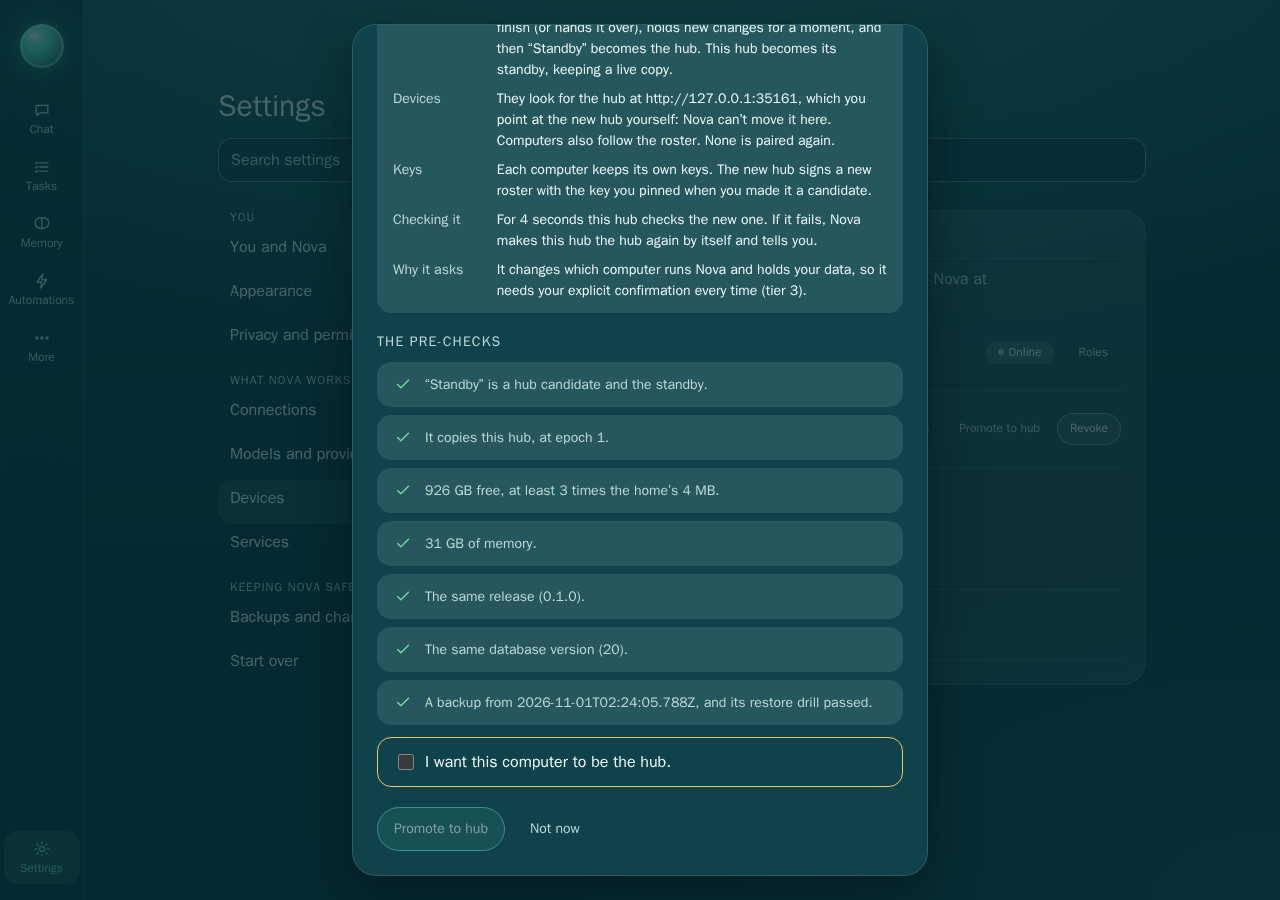
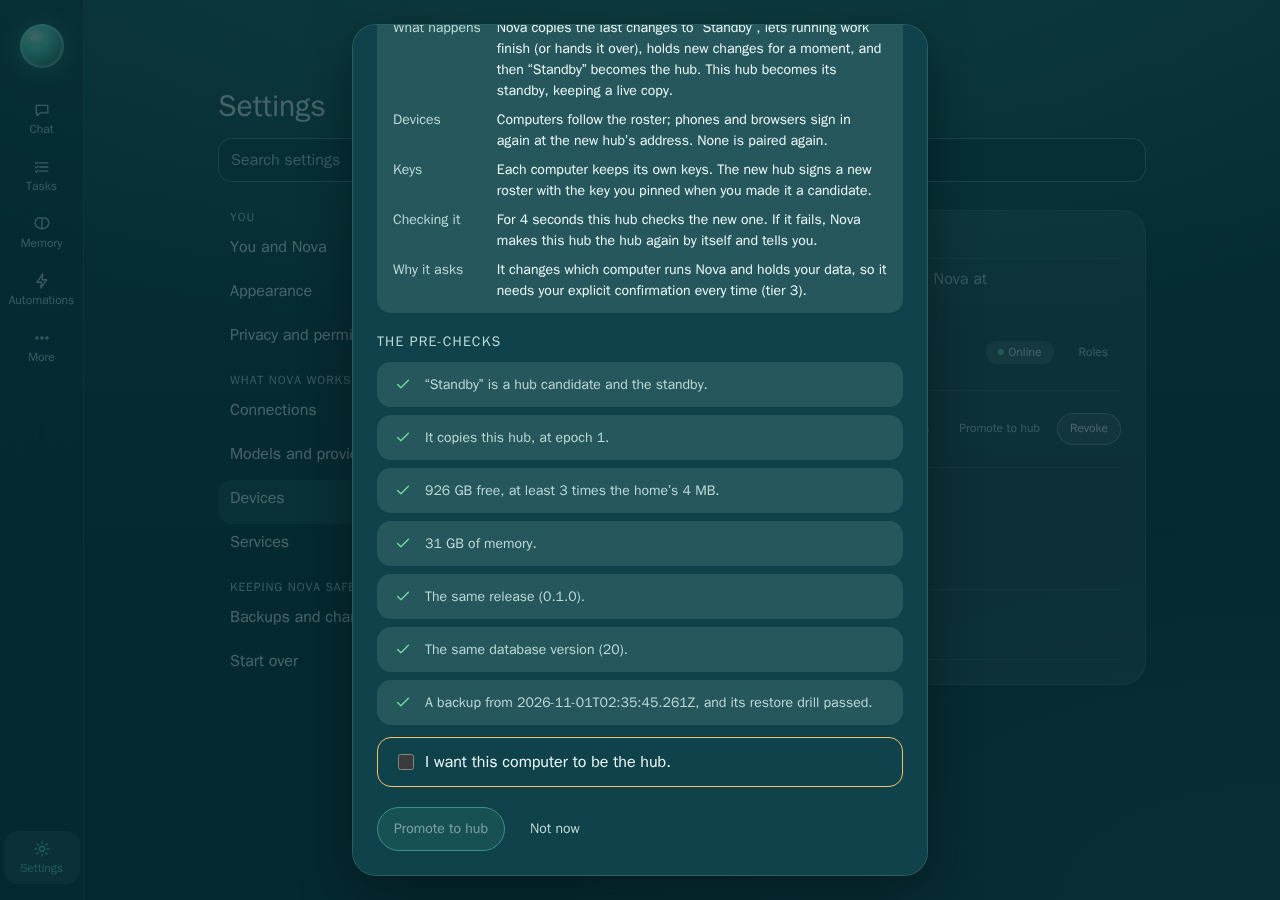
M10g: gate evidence, with the drill's recorded run

Changed region(s): [[0.375, 0.0311, 0.6875, 0.1867], [0.3125, 0.0933, 0.3438, 0.1556]]

diff --git a/docs/evidence/m10g-gate.md b/docs/evidence/m10g-gate.md
@@ -12,7 +12,13 @@ The branch is `m10g/hub-promotion`, from main at `4685053d` (M10f merged). **No 
 new is replicated (the promotion's shared record is its ledger tasks; each node's own progress is
 `mesh/promotion.json`, which stays on its node), so `ADDED_COLUMNS` is unchanged.
 
-@@SUITE@@
+## Suite
+
+- `npm run check` at `8a2f24c3` (tokens, themes, typecheck, then `npm test` under the tripwire): **1456 tests: 1441 pass, 2 fail, 13 skipped**. The two are `tests/core/provider-guard.test.ts` › “a coding agent that changes more than Nova takes…” (the stand-in agent ended without a result) and `tests/skills-api.test.js` › “the email summary…” (timed out): the two load-sensitive Era 2/provider tests M10f’s evidence names too. Run alone right after, both files pass (17 of 17). Neither touches M10g’s code.
+- The first full run, before the roll-back asked the failing hub to stand down, failed the drill with two nodes taking a change in the same tick (see Guards); that is fixed and the drill passed in every run since.
+- `scripts/ui-test.sh`: **108 tests: 108 pass** (Chromium and WebKit, in the Playwright image), `tests/ui/m10g-promotion.test.ts` among them. Its screenshots are in `docs/screenshots/m10g/`; the other evidence screenshots the run rewrote were put back as they were.
+- CI is the record: see the PR.
+
 
 ## Reused, and new
 
@@ -31,4 +37,241 @@ new is replicated (the promotion's shared record is its ledger tasks; each node'
 
 ## Gate items
 
-@@GATE@@
+### 1. Planned promotion, end to end, every step ledgered
+
+- **The pre-checks refuse, for each reason, in words.** `tests/core/mesh-promotion.test.ts`:
+  - "pre-checks: each reason refuses…" (pure): no such device, revoked, the hub itself, a phone, a
+    computer that is no hub candidate, a candidate that isn't the standby ("Make it the standby
+    first"), unreachable, not following this hub at its epoch, stepped down, too little disk (less
+    than 3× the home), disk unknown, too little memory (under 2 GB), another release, another schema,
+    no backup, a backup older than 24 h, a backup whose drill hasn't passed; and a good candidate
+    passing all seven checks.
+  - "pre-checks through the hub…" (two cores over HTTP): a phone, a computer with no candidacy, a
+    candidate that isn't the standby, no fresh backup, then the candidate reporting 1 KB of disk and
+    1 GB of memory (`disk`, `memory`), and a candidate on release 0.2.0 (`version`). The route without
+    `confirm` is 400 (tier 3, every time); with it and a failing check, 409 with the reason, a failed
+    "Promotion pre-checks" ledger task, and the hub unchanged.
+  - The drill, case 1: the real phone, the real computer, and the standby with no backup refused.
+- **Catch-up, drain, hold, transfer, demotion, verification.** "a planned promotion end to end…"
+  (two cores) and the drill's case 2 (two processes): the chain on the new hub is six ledger tasks,
+  all done and each checked by Nova (`nova-promotion` confirmations; the transfer is M4's own task
+  under the chain): "Promotion pre-checks for “…”", "Copied to the candidate", "Running work finished
+  or handed over", "Hub handed over to this node", "“…” is the standby now", "Checks of this node as
+  the hub". A change made while the hub handed over was refused with "Nova is handing the hub over…"
+  (409); the old hub then refuses changes as a standby and copies the new hub (a memory written on
+  the new hub arrives on the old one); the stable name points at the new hub; the window passes and
+  the new hub records it with the probe runs.
+- **The drain** (`ledger.drain`): "the drain: nothing new starts but what is kept; running work gets
+  the bound, then is handed over; work past its commit point is never cut": a running task is left
+  active for the next hub's recovery, a task queued during the drain doesn't start until `resume()`,
+  and a task past its commit point (`uncancellable`) is reported `stuck`, so the hand-over stops.
+- **The automatic roll-back at epoch + 2.** "the new hub fails its checks (the stable name didn't
+  move)…" (two cores: epoch 1 → 2 → 3) and the drill's case 3 (epoch 2 → 3 → 4): the old hub, now
+  the standby, sees three failing probes, asks the failing hub to stand down, copies what it took,
+  takes the role back at epoch + 2 by itself (tier 1: a problem says so), points the name back, and
+  the new hub steps down and copies it afresh as its standby. Ledger: "Promotion rolled back: this
+  node is the hub again" done; "Checks of “…” as the hub" failed, with the failing probe and "stopped
+  taking changes first".
+
+### 2. Emergency promotion from the latest backup
+
+The drill's case 6, on N2 (a hub candidate that had stepped down: not the standby, no live copy),
+with N1 killed: the sheet (`GET /mesh/promotion/cold`) states the backup's number and time, "What is
+lost: Everything written after <that time>…", "Connectors need signing in again. The backup holds
+your saved secrets encrypted but never their key, and Nova keeps no copy of that key anywhere…", the
+devices, the epoch (6, max + 1), the stable name and tier 3. `confirm` is required (400 without it).
+The backup's restore drill runs first, the backup is staged, Nova restarts in place, and N2 is the hub
+at epoch 6 with its own keys. A memory written on N1 after the backup is absent on N2; the connector
+secret saved on N1 isn't in N2's vault; the ledger has "Emergency promotion from the backup of …" and
+"Promoted from a backup: this node is the hub", both done; the computer and the phone, paired before
+the backup, follow without pairing again. **Nothing escrowed:** case 9 scans every backup for the
+vault's key in four encodings and finds none. The sheet's words are unit-tested in "the emergency
+sheet says the backup's time, what was lost and that connectors sign in again…", which also shows a
+hub and a live standby sent elsewhere.
+
+### 3. The promotion drill, with two test devices
+
+`node scripts/promotion-drill.ts --record <file>` and `tests/acceptance/m10g-drill.test.ts` run the
+same code (`tests/acceptance/m10g-drill.ts`): two Nova homes in temp folders (N1, N2), real server
+processes on loopback, a computer joined with the real `boot.ts join` and followed with the real
+`findHub`, a phone (`Joiner`), the stable name as a loopback forwarder with a control port Nova's
+driver uses (`NOVA_MESH_NAME_CONTROL`), and a backup folder. Its recorded run is in "The drill's
+recorded run" below.
+
+### 4. No private key leaves its device
+
+The drill's case 9: N1's and N2's `mesh/identity.json` and the computer's `boot/keys.json` are
+byte-identical (SHA-256) before and after. Every file under both homes, the computer's home, the
+backup folder and the tap (`NOVA_DRILL_TAP`: every decrypted sync batch, the handover, every ready and
+transfer answer and hello, as the receiving node read them) is scanned for each of the six private
+keys (Ed25519 and X25519 of three devices) as JWK `d`, hex and base64; none is found outside its own
+key file (and its own node's checkpoints, which never leave it). `tests/core/mesh-promotion.test.ts`
+"the hub's calls to the candidate and the handover are signed, fresh, used once, and carry no key"
+checks a signed call and a handover the same way. **Said plainly:** the vault's key is not a device
+key; it still reaches a live standby sealed to that standby's key, as since M5b (that is how a
+planned promotion keeps connectors working), so the tap holds it; no backup does.
+
+### 5. Fencing and split-brain
+
+- "fencing covers every pinned hub candidate…": a computer made a hub candidate, proving its own key
+  at a higher epoch, makes the hub step down (it then refuses changes); the same computer before its
+  candidacy doesn't. `tests/core/mesh-sync.test.ts` "only the standby or a pinned hub candidate can
+  make a hub step down…" (changed: see Guards).
+- "trust widened to every pinned candidate, and only there…": a computer's agent accepts a
+  candidate's roster at a higher epoch (and refused it with the pre-M10g key set), never an unpinned
+  key with a valid signature, never a lower epoch; runtime bundles stay hub- and standby-signed.
+- The drill: case 4 (N2 back after N1 took over: fenced, refuses changes, and can't be made the hub
+  from its stale copy), case 5 (N1 back while N2 is down: the computer refuses its epoch 5 against
+  the 6 it holds), case 7 (N1 back with N2 up: it finds N2, a pinned candidate, at epoch 6 and steps
+  down before it takes a change), case 10 (a node with a valid signature from an unpinned key at
+  epoch 99, behind the stable name: refused).
+- **Never two hubs taking writes:** the drill's case 8 asks both nodes to take a change at the same
+  moment every 100 ms through every case (a request the write gate decides and the handler then
+  refuses, so nothing changes: 409 refused, 400 taken); the core roll-back test does the same every
+  few milliseconds. Neither saw both take one. This is sampling, not a proof.
+- **A rolled-back promotion leaves one hub:** the core roll-back test and the drill's case 3 end with
+  exactly one hub, the other its standby, copying it.
+
+### 6. Tier 3, every time, and the closing rule
+
+Both promotions refuse without `confirm: true` (core tests and the drill); the browser test
+(`tests/ui/m10g-promotion.test.ts`) shows the sheet's button disabled until the box is ticked, a
+refused pre-check offering no button, then the hub handing over and its own screen saying it is the
+standby, and the Devices page saying the promotion is verified (screenshots in
+`docs/screenshots/m10g/`). The automatic roll-back is tier 1 (Nova acts, then a problem and the ledger
+say so). The sheets' words are built in `src/core/mesh/handover.ts`; eight of its claims are in the
+register (`tests/evals/claims.ts`, "hub promotion (M10g)"), each worded to what the person will see
+happen, with its stronger words held back for a named eval (`claim.promotion-*`,
+`claim.cold-promotion-restores-backup`, `claim.no-vault-key-escrow`, `claim.never-two-hubs`), since no
+golden task promotes a hub. The claims test and the closing rule pass (`tests/core/evals.test.ts`).
+
+### 7. The fresh-user test and the regression evals
+
+- **The fresh-user test** (`tests/acceptance/fresh-user.test.ts`, in `npm test`): passed, “fresh user: blank profile → conversational setup → a delegated task verified with evidence, local-only, durable across a restart”, with M10f’s timed first win (3095 ms measured; the human path estimated at 361 s).
+- **The regression eval suite** (`tests/acceptance/evals-regression.test.ts`): 25 of 25 regression tasks passed (100%), and the negative control failed every task, as it must. Nothing M10g changed is an agent outcome, so no task was added; the promotion claims are softened to what the tests show (item 6).
+
+
+## Guards removed in turn
+
+Each change below was undone on its own, and the named test run against it:
+- **The stand-down before a roll-back** (the old hub calling an unknown step instead): "the new hub
+  fails its checks…" failed in both of two runs: "two hubs took a change at the same moment"
+  (`both: 3` of 109 ticks, then `both: 2` of 104). This is how the gap was found: the first full run
+  of the suite, before the stand-down existed, failed the drill with `both: 1` of 227 ticks, in the
+  roll-back.
+- **Candidates as fencing successors** (`...candidates` taken out of `successors`): "fencing covers
+  every pinned hub candidate" failed ("a pinned candidate is a possible successor (Decision 2)").
+- **The hold in the write gate** (`role.held()` taken out of `core.gate`): "writes held…" and "a
+  planned promotion end to end…" failed ("a change was refused while the hub handed over").
+- **`replica().demoted` counting a role file that says hub** (back to M4's test): the drill failed at
+  case 4: N2, fenced, with a role file left saying hub, was made the hub from its stale copy at epoch
+  6. A pre-existing M4 gap, found by this drill.
+- **The guard M10g removed on purpose:** a replaced standby proving a higher epoch used to be refused
+  ("isn't this hub's standby"); it is a hub candidate, so it is a possible successor now (Decision 2).
+  The test was changed to keep the refusal where it still holds: a computer that is no candidate.
+
+## Limits
+
+- **Step 0 isn't automated:** a candidate that isn't the live standby is refused with directions to
+  make it the standby first (a pairing on that machine, with new keys in a new home).
+- **A computer running only the device agent can't be promoted:** it has a pinned key but no Nova home.
+- **No rehearsal from Settings › Devices on scratch copies:** the drill is a script and a test.
+- **The window** is 30 minutes unless `NOVA_PROMOTION_WINDOW_S` says otherwise (the drill and the
+  tests use seconds); there is no setting for the person, so nothing stops that variable shortening it.
+- **The stable name** moves only through `NOVA_MESH_NAME_CONTROL`, and only a loopback stand-in was
+  ever behind it; there is no DNS or tailnet driver. Without one, the sheet says the person moves it
+  and the window doesn't check it. M10d's change chain isn't used for it (see the plan).
+- **A partition:** a new hub cut off from the old one during a roll-back can't be asked to stand down,
+  and an old hub cut off from every peer acts as hub until it hears of the higher epoch. Devices
+  refuse its lower epoch, but anything reaching it directly could write there. Two nodes have no
+  third vote; this is ADR-11's one-active-hub rule as M4 built it, not solved here.
+- **The drain's bound:** work stopped at the bound is left active for the new hub, but a worker that
+  ignores its stop signal can still write to the old hub's own tables after the hold (not logged, so
+  never replicated; it stays on that node until the new hub's copy overwrites the row).
+- **Disk and memory** are as the candidate reports them.
+- **The emergency path** takes backup folders only (not the encrypted copy), checks the backup's seal
+  only when this node's vault holds the seal's key (the sheet says when it couldn't), and records its
+  ledger chain after the restart; a cold attempt refused before staging (its drill failed) is told on
+  the sheet but not ledgered (a node that isn't hub runs no ledger).
+- **Same-disk copies:** the staged swap (restore.ts, unchanged) carries this node's `mesh/` folder
+  into the restored home by copying it on the same disk; the key file is byte-identical and never
+  leaves the device.
+- **Nothing real:** one machine, loopback, stand-ins. Promoting between the owner's own hub and a real
+  computer is the owner's call (the ADR's Hard limits), as real pairing is (LEDGER).
+
+## The drill's recorded run
+
+Recorded with `node scripts/promotion-drill.ts --record <file>` under the no-Kubernetes tripwire, at the branch head before this evidence was committed:
+
+Run 2026-11-01T02:28:04.719Z on linux (Node 26.3.1), in 17 s. Every case asserts as it runs: this record exists only if each one held.
+
+**Case 0.** Two Nova homes, a standby enrolled with its own command at the stable name, a computer and a phone paired there (1.7 s)
+- N1 (hub) http://127.0.0.1:20187, N2 (standby “Spare”) http://127.0.0.1:31473, the stable name http://127.0.0.1:43463 pointing at N1
+- the computer 08e860d0-ee9e-49a3-94ea-b27451907d97 pinned 2 keys at epoch 1
+
+**Case 1.** The pre-checks refuse an ineligible candidate, for each reason the drill can make (0.2 s)
+- the phone: “Pocket phone” is a phone: a screen onto Nova, never a hub.
+- the computer: “Desk computer” isn’t a hub candidate. Making it one is its own explicit confirmation, in its roles.
+- the standby with no backup: There is no backup. Back up now (Settings › Backups), then try again.
+
+**Case 2.** A planned promotion N1 → N2: every step ledgered, no data lost, devices re-pointed through the stable name, N1 a live standby, the window passed (7.6 s)
+- backup 1 of 2026-11-01T02:28:06.719Z, its drill passed; every pre-check passed (role, follows, disk, memory, version, schema, backup)
+- ledger: “Promotion pre-checks for “Spare””: done
+- ledger: “Copied to the candidate”: done
+- ledger: “Running work finished or handed over”: done
+- ledger: “Hub handed over to this node”: done
+- ledger: ““Hub” is the standby now”: done
+- ledger: “Checks of this node as the hub”: done
[1 lines of base64/hex data omitted]
+- the computer: epoch 2 at http://127.0.0.1:43463; the phone: session 200 at the stable name
+- window: 15 probes over 6 s, the last passed
+
+**Case 3.** A planned promotion N2 → N1 whose new hub fails its checks (the stable name didn’t move): N2 hub again by itself at epoch 4 = 2 + 2; N1 stepped down to copy it (2.6 s)
+- ledger: “Promotion pre-checks for “Hub””: done
+- ledger: “Copied to the candidate”: done
+- ledger: “Running work finished or handed over”: done
+- ledger: “Hub handed over to this node”: done
+- ledger: ““Spare” is the standby now”: done
+- ledger: “Promotion rolled back: this node is the hub again”: done
+- ledger: “Checks of “Hub” as the hub”: failed
+- failing probe: http://127.0.0.1:43463 doesn’t lead to “Hub” (it answers as this node).
+- the computer follows N2 at epoch 4
+
+**Case 4.** N2 killed; N1, its live standby, made the hub (M4’s promotion, epoch 5); N2 back and fenced (0.8 s)
+- N2 says: This node isn’t the hub any more: “Hub” at http://127.0.0.1:20187 became the hub (epoch 5) while it was away, so this one only reads. “Hub” at http://127.0.0.1:20187 is the hub.
+- asked to become the hub with what it had: This node isn’t the hub any more: “Hub” at http://127.0.0.1:20187 became the hub (epoch 5) while it was away, so this one only reads. “Hub” at http://127.0.0.1:20187 is the hub. It has no copy of the hub’s latest data, so it can’t take over. Enroll it again as the standby first.
+
+**Case 6.** An emergency promotion from the latest backup onto N2 (a hub candidate, not the standby), with N1 unreachable (2.7 s)
+- sheet: The backup: Backup 3, made 2026-11-01T02:28:17.629Z.
+- sheet: What is lost: Everything written after 2026-11-01T02:28:17.629Z: changes, conversations, memories and tasks from then on are not in the backup.
+- sheet: Connectors: Connectors need signing in again. The backup holds your saved secrets encrypted but never their key, and Nova keeps no copy of that key anywhere, so they can’t be opened.
+- sheet: Devices: Devices paired before the backup find this node without pairing again: its key is in the roster they hold. A device paired after it needs pairing again.
+- sheet: Epoch: This node becomes the hub at epoch 6, higher than any it knows of, so a hub that comes back steps down.
+- sheet: The stable name: Devices look for the hub at http://127.0.0.1:43463.
+- sheet: Why it asks: It changes which computer runs Nova and holds your data, so it needs your explicit confirmation every time (tier 3).
+- ledger: “Emergency promotion from the backup of 2026-11-01T02:28:17.629Z”: done
+- ledger: “Promoted from a backup: this node is the hub”: done
+- memory written after the backup: absent on N2 (lost, as said); the connector secret: not in N2’s vault (1 secrets)
+- the computer follows N2 at epoch 6 with no new pairing; the phone signs in at the stable name
+
+**Case 5.** The old hub back while the new one is down: the computer refuses its lower epoch (0.7 s)
+- the computer says: http://127.0.0.1:43463 can’t be reached (UND_ERR_SOCKET). http://127.0.0.1:20187 says it is hub at epoch 5, older than 6; it was replaced.
+
+**Case 7.** N1 returns, finds N2 at epoch 6 (a pinned candidate), and steps down before it takes any change (1.1 s)
+- N1 says: This node isn’t the hub any more: “Spare” at http://127.0.0.1:31473 became the hub (epoch 6) while it was away, so this one only reads. “Spare” at http://127.0.0.1:31473 is the hub.
+
+**Case 10.** A node with a valid signature from a key that isn’t pinned, at epoch 99, can’t take the role (0.0 s)
+- the computer says: http://127.0.0.1:43463: Its key isn’t one this device pinned.
+
+**Case 8.** Throughout: both nodes asked to take a change at the same moment, every 100 ms (0.1 s)
+- 161 ticks; N1 took 51, N2 took 78; both in the same tick: 0
+
+**Case 9.** No private key left its device (0.1 s)
+- key files byte-identical before and after: n1 58f260b852c8…, n2 976ceb2bd871…, computer bbbb995b656e…
+- scanned 229 files (6976 KB): both homes, the computer’s home, every backup and 43 tapped messages (handover, hello, ready-answer, stand-down-answer, start, sync, transfer-answer), for 6 private keys in 3 encodings each: none found outside its own key file
+- no backup in the drill’s backup folder (a temp folder) holds the vault’s key
+
+**Write probe:** 161 ticks; N1 took a change in 51, N2 in 78, both in the same tick in 0.
+
+**Key files** (SHA-256 before and after): n1 58f260b852c8f2a9… → 58f260b852c8f2a9…; n2 976ceb2bd87114c7… → 976ceb2bd87114c7…; computer bbbb995b656e7c86… → bbbb995b656e7c86…. Scanned 229 files (6976 KB) and 43 tapped messages; private keys found outside their own key file: 0.
+
